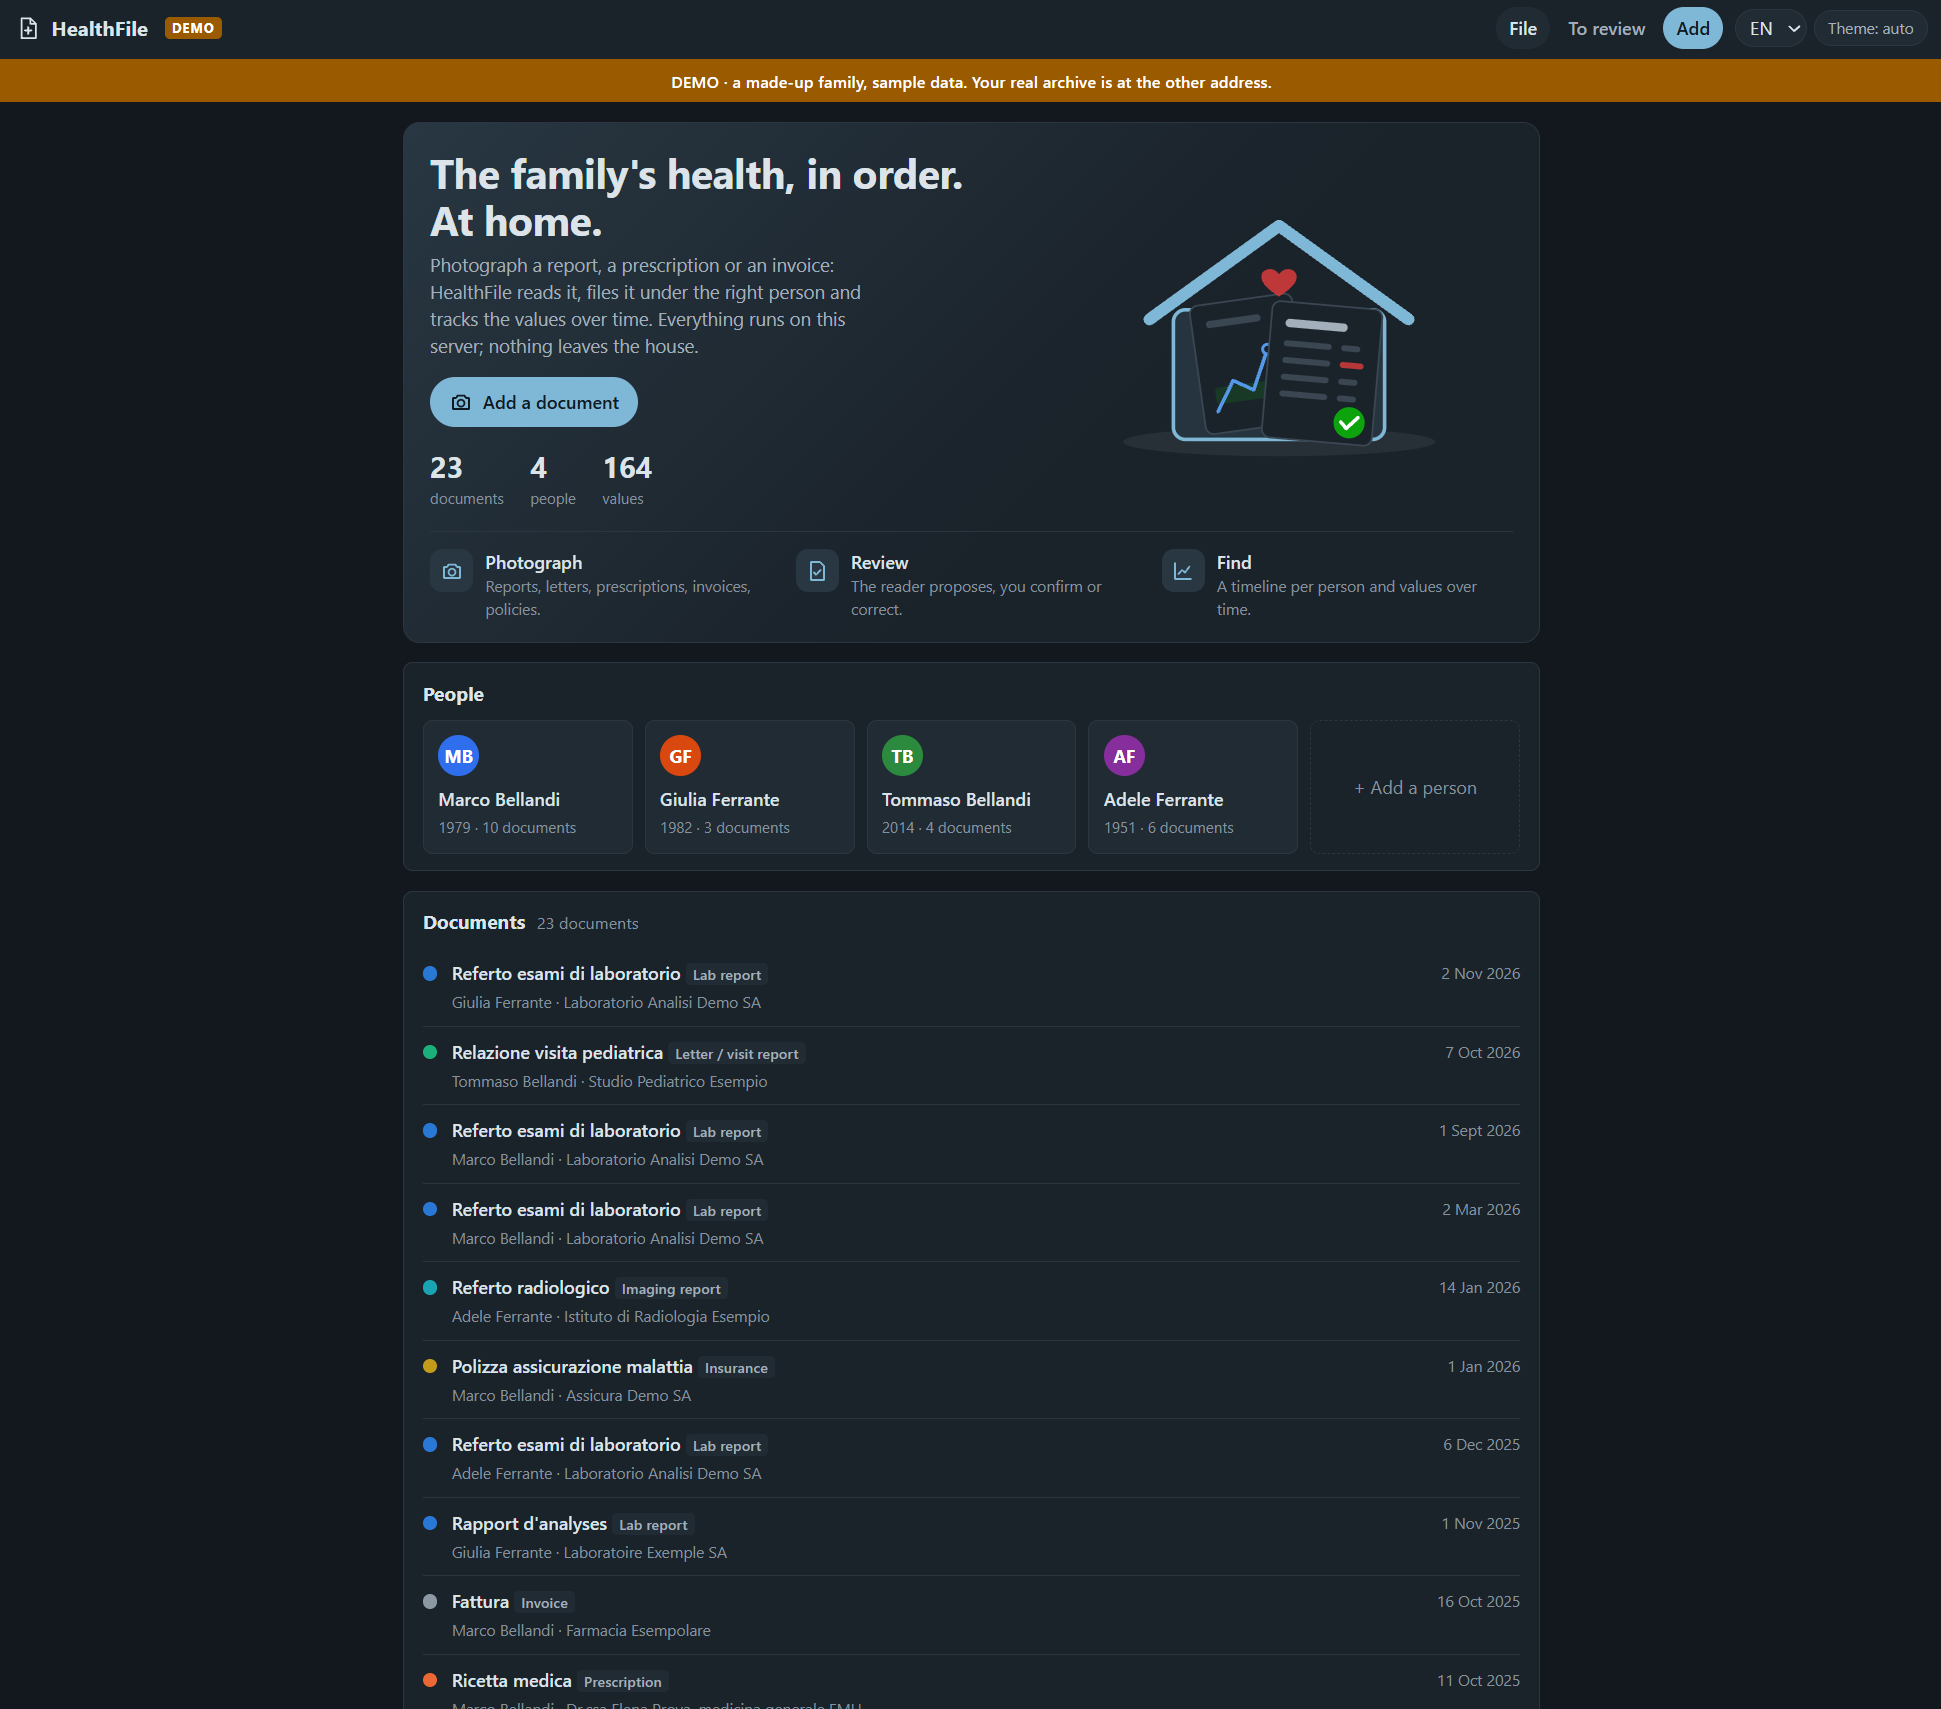
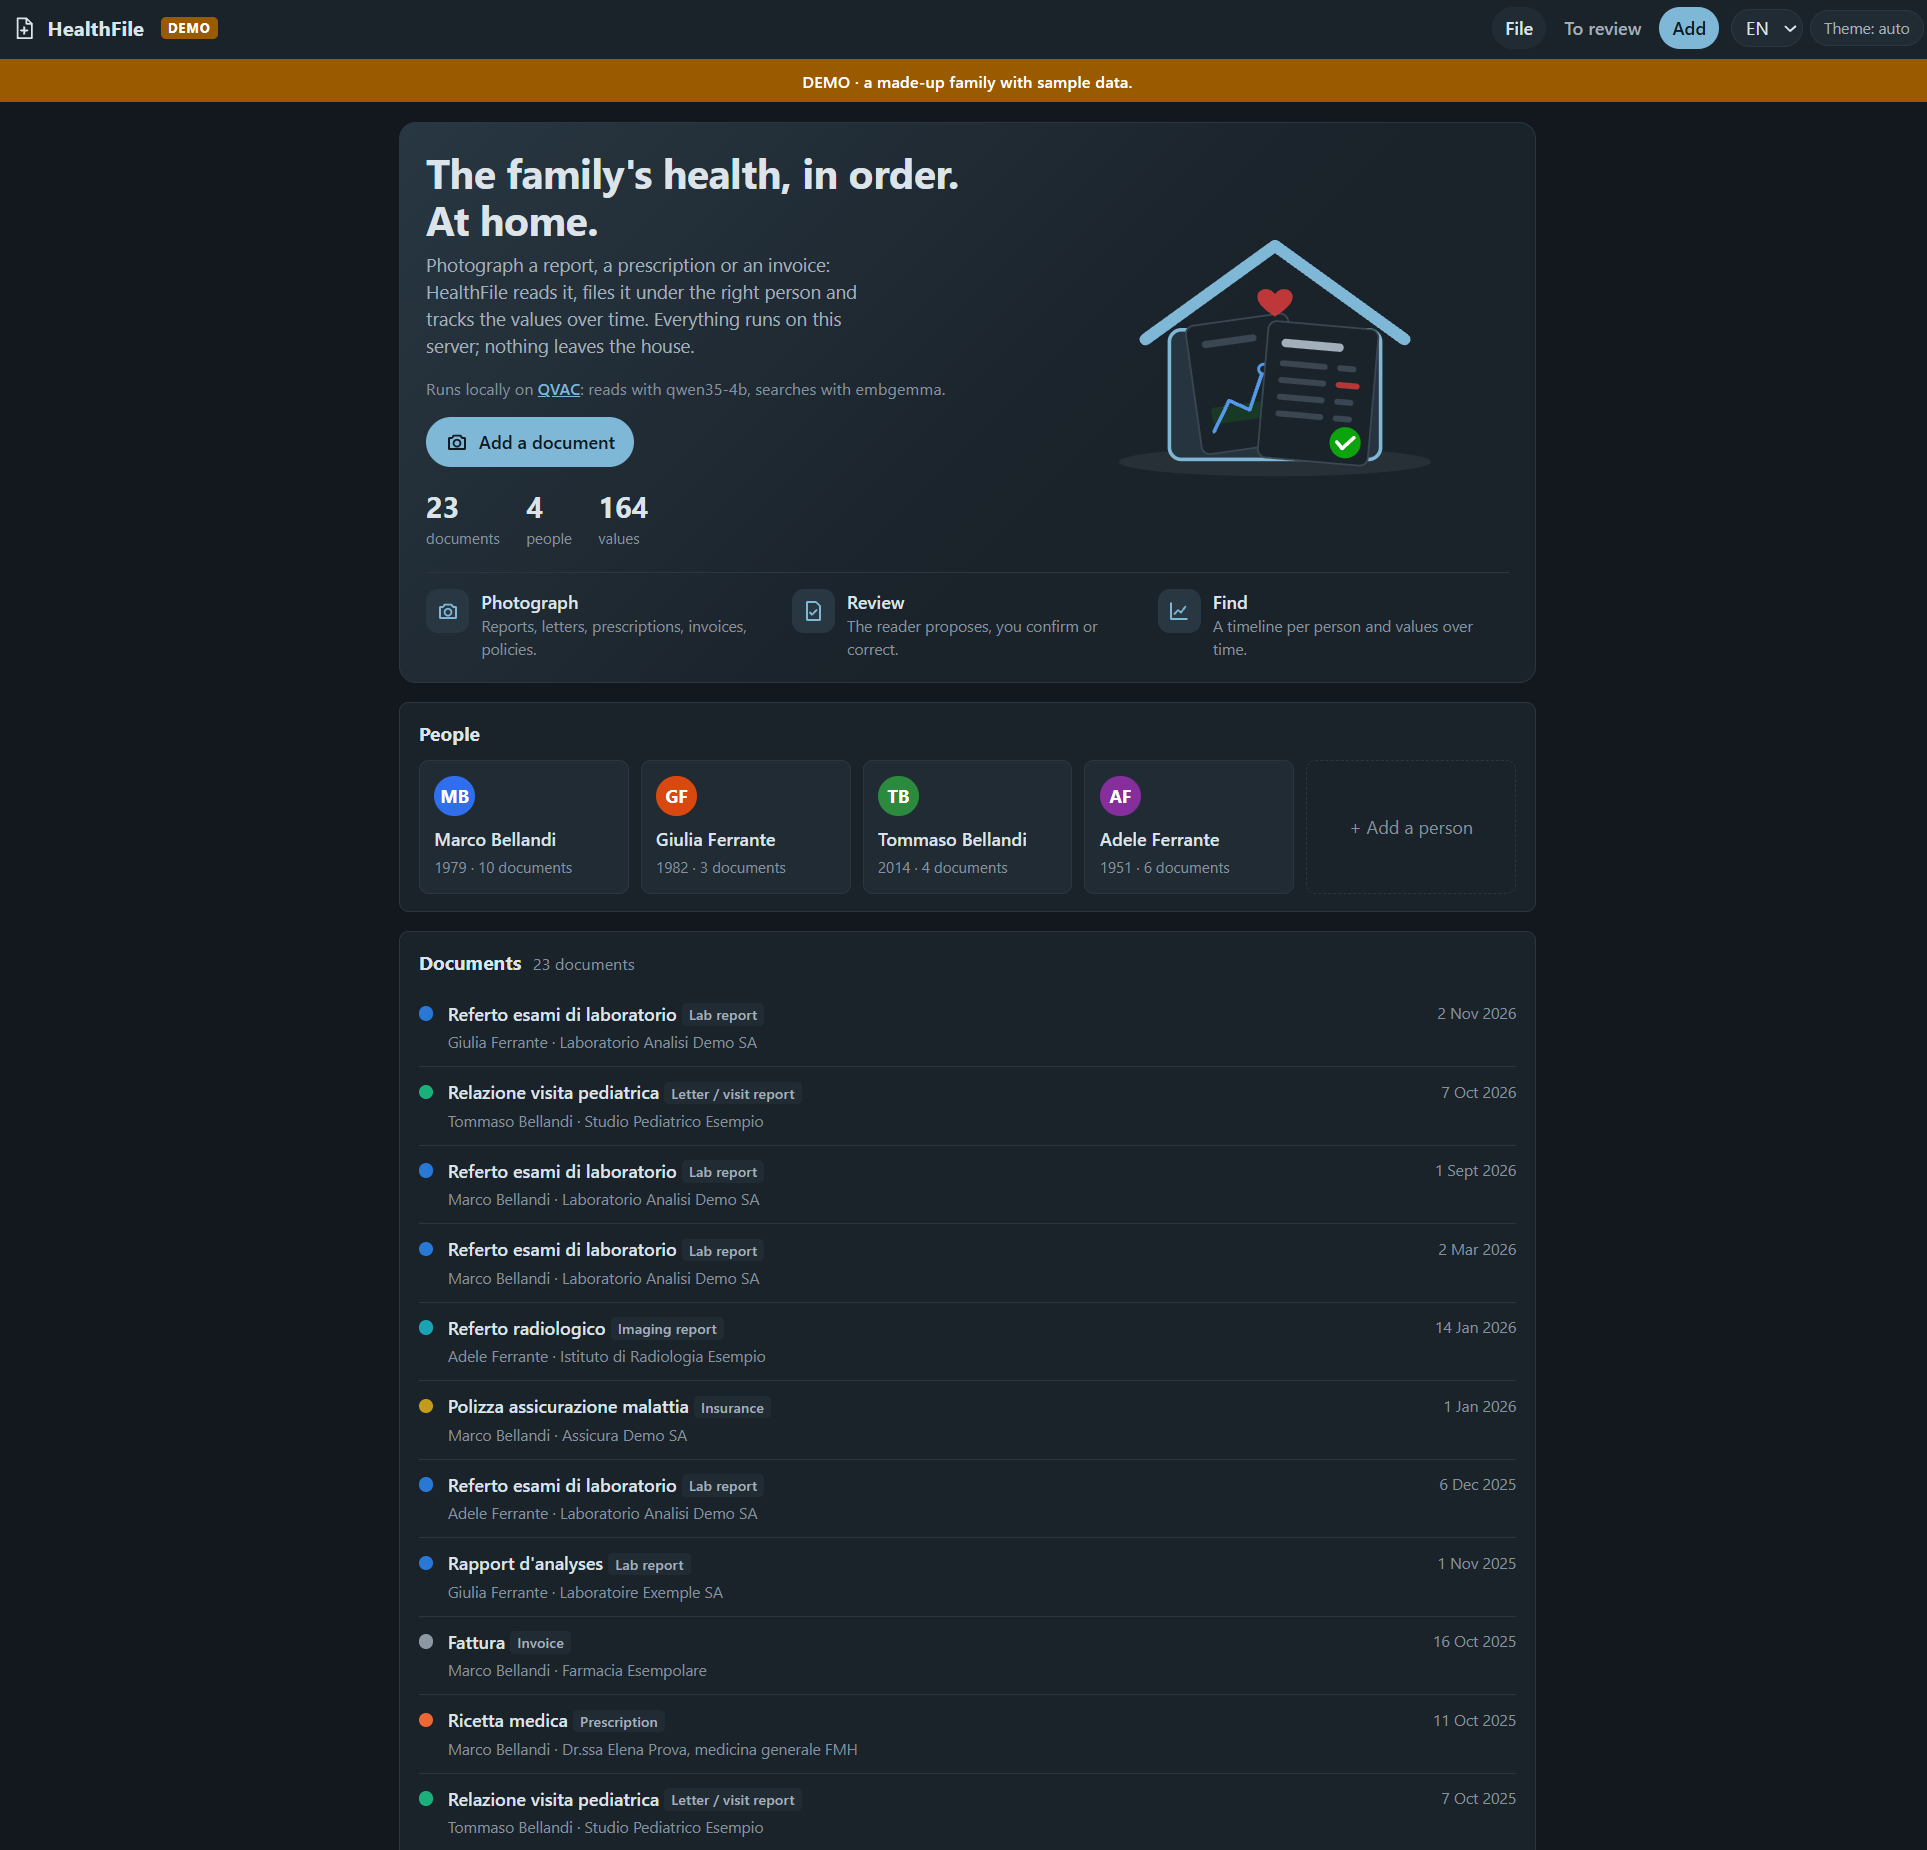
README: the demo as read by the real model, what it uses from QVAC, how well it reads
Screenshots of the demo copy on omen01 (Qwen3.5-4B through qvac serve on an
RTX 3060), cropped so no address shows; a section on the QVAC capabilities
used; the first measurement on the 23-document corpus (date and person
23/23, 158 of 170 lab values found and every one of them exact, 14 s a
document) with what the misses were and how they were fixed.

Claude-Session: https://claude.ai/code/session_01YN3wxVLHSU6wcHMEMiM3Lc

diff --git a/README.md b/README.md
@@ -14,18 +14,60 @@ Nothing leaves the house. Every model runs through
 app has no web tools and no outbound connection at all, and the page says so
 on every screen.
 
-![the demo copy on omen01: 23 documents of a fictional family, read by Qwen3.5-4B through qvac serve](docs/demo-home.png)
+These screenshots are the demo copy on the home server: a fictional family
+(23 PDFs in Italian and French, made by [scripts/make_corpus.py](scripts/make_corpus.py)),
+every document read by Qwen3.5-4B through `qvac serve` on an RTX 3060, the
+interface in English.
 
-![home: people and the family's documents (demo data)](docs/home.png)
+![the archive: four people, 23 documents, the values read from them](docs/demo-home.png)
 
-![review: the page beside what was read, every value editable](docs/review.png)
+![one person: every value read over time, out-of-range ones in red](docs/demo-person.png)
 
-![one value over time with its reference band](docs/series.png)
+![one value over five lab reports, with its reference range](docs/demo-series.png)
 
-<img src="docs/phone-review.png" alt="review on a phone" width="300">
+## What it uses from QVAC
 
-The screenshots are from mock mode: the family, the issuers and every number
-are invented ([scripts/make_corpus.py](scripts/make_corpus.py)).
+Everything goes through [`qvac serve`](https://github.com/tetherto/qvac)'s
+OpenAI-compatible API on the same machine:
+
+- **Reading a page:** a vision model (Qwen3.5-4B with its projector) gets the
+  page as an image and answers with one JSON object: kind, date, person,
+  issuer, every value with its unit, range and flag, medications, follow-ups.
+- **Repairing:** when the JSON is malformed, the same model fixes it in a
+  second, text-only call.
+- **Searching:** EmbeddingGemma turns filed documents into vectors.
+- **Next:** questions answered from the documents with citations, and
+  MedPsy to explain a report in plain words.
+
+## How well it reads
+
+The whole corpus, PDF input, one run on omen01 (Qwen3.5-4B, RTX 3060), with
+[scripts/measure-extraction.mjs](scripts/measure-extraction.mjs) against the
+corpus' ground truth:
+
+| Field | Right |
+| --- | --- |
+| date | 23 / 23 |
+| person (printed name) | 23 / 23 |
+| kind of document | 22 / 23 |
+| issuer | 22 / 23 |
+| lab values found | 158 / 170 (93 %) |
+| values found that are exact (number, unit, range, flag) | 158 / 158 |
+| time per document | 14 s on average (6–9 s a letter, 18–28 s a full lab report) |
+
+Every value it found was right; the misses were values it did not report:
+weight and height in the paediatric letters (the prompt asked for values in
+lab reports only, now fixed), a blood pressure written as "130/83" (now split
+in two), and "Piastrine" read as "Piastre" (now recognised). One date printed
+06.12.2025 was read month first; the page's own text now corrects that.
+
+The older mock-mode screenshots:
+
+![home: people and the family's documents (mock)](docs/home.png)
+
+![review: the page beside what was read, every value editable (mock)](docs/review.png)
+
+<img src="docs/phone-review.png" alt="review on a phone (mock)" width="300">
 
 ## What it is not
 
